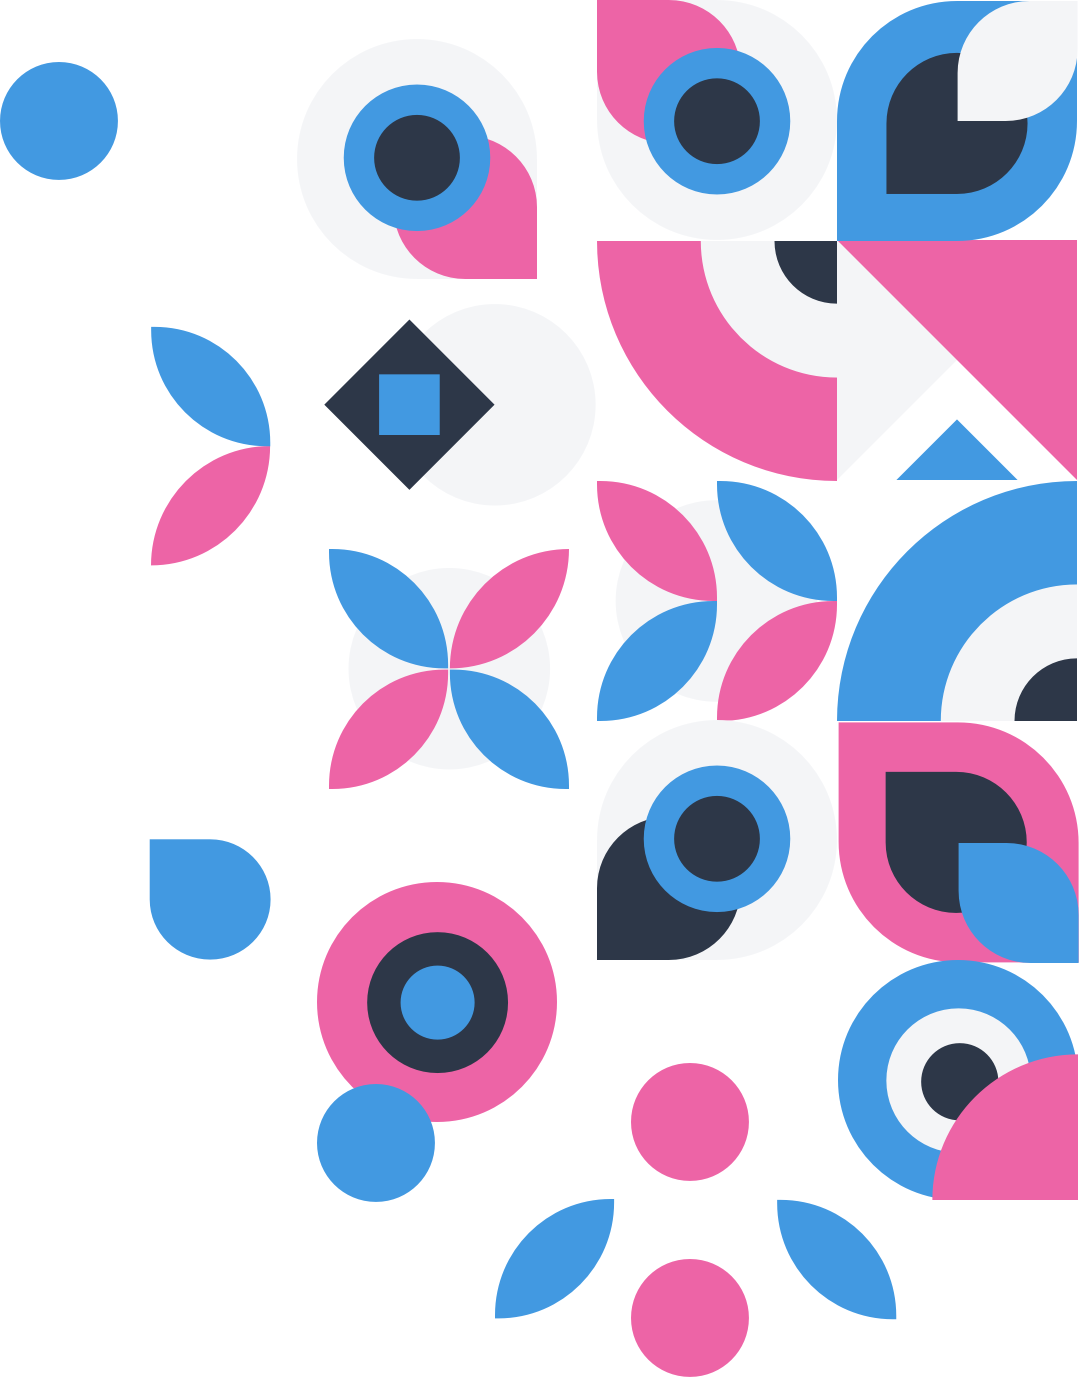
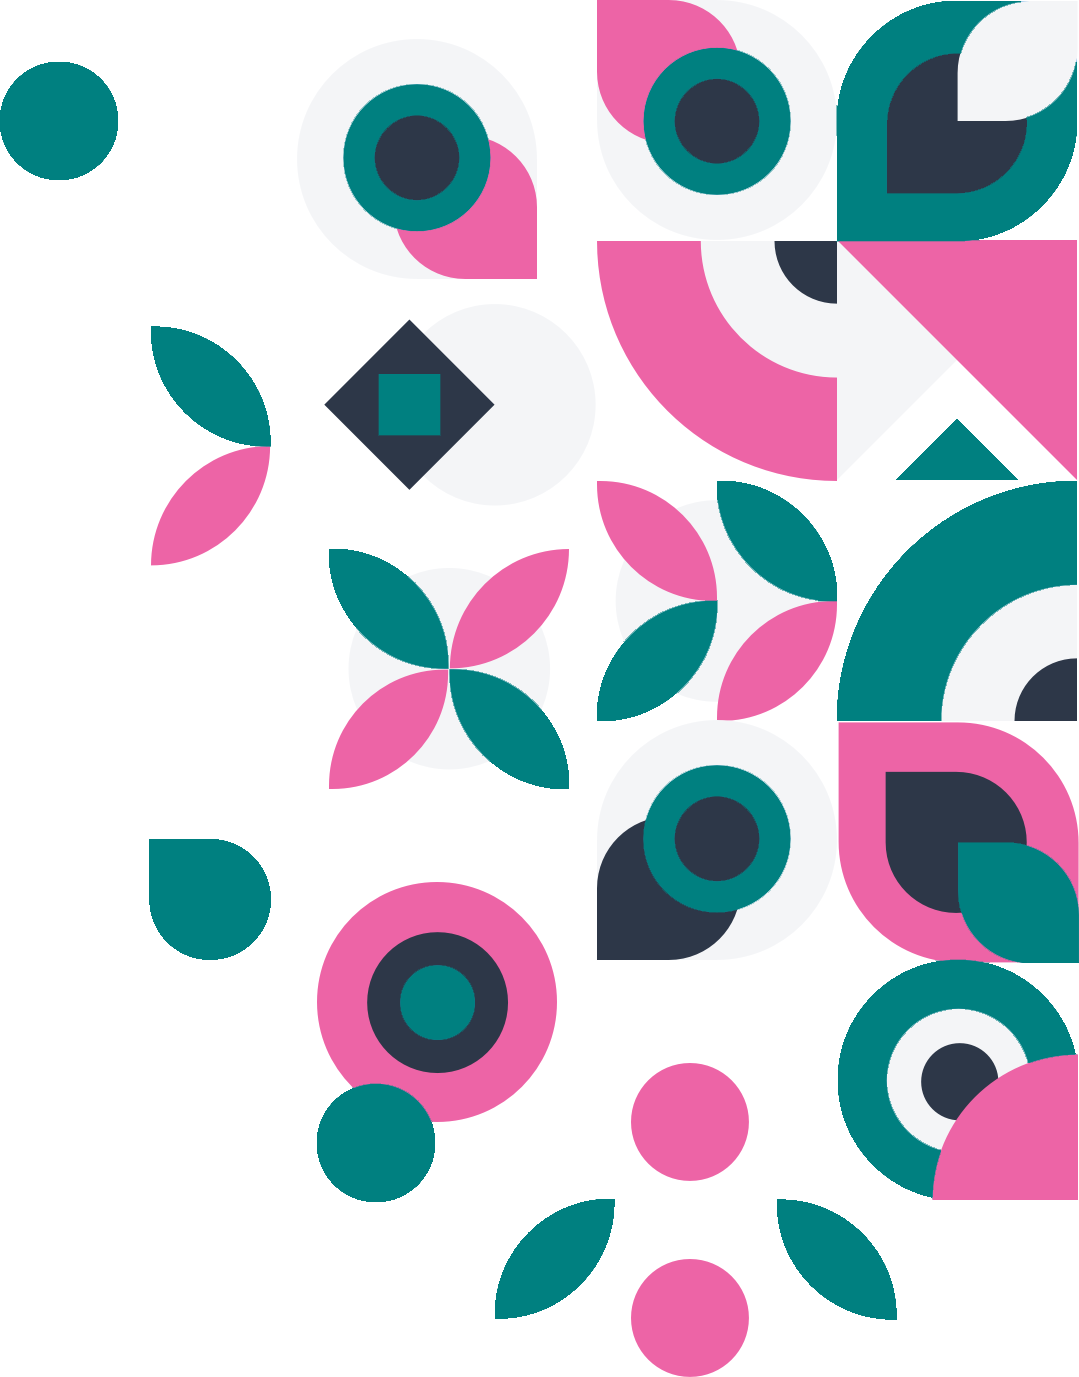
modification composant settings en cours..

diff --git a/front-end/src/views/Index.js b/front-end/src/views/Index.js
@@ -20,8 +20,8 @@ export default function Index({ data }) {
                                 <a href = "https://Iteam-$.mg" className = "text-blueGray-600" target = "_blank" >{" "}Iteam - $ </a>.
                             </p> 
                             <div className = "mt-12" >
-                                <a href = "https://iteam-s.mg/" target = "_blank" className = "get-started text-white font-bold px-6 py-4 rounded outline-none focus:outline-none mr-1 mb-1 bg-lightBlue-500 active:bg-lightBlue-600 uppercase text-sm shadow hover:shadow-lg ease-linear transition-all duration-150" >Get started </a> 
-                                <a href = "https://github.com/iTeam-S" className = "github-star ml-1 text-white font-bold px-6 py-4 rounded outline-none focus:outline-none mr-1 mb-1 bg-blueGray-700 active:bg-blueGray-600 uppercase text-sm shadow hover:shadow-lg ease-linear transition-all duration-150" target = "_blank"  style = {{ backgroundColor: '#116466' }}>Github Star </a> 
+                                <a href = "https://iteam-s.mg/" target = "_blank" className = "get-started text-white font-bold px-6 py-4 rounded outline-none focus:outline-none mr-1 mb-1 bg-lightBlue-500 active:bg-lightBlue-600 uppercase text-sm shadow hover:shadow-lg ease-linear transition-all duration-150" style = {{ backgroundColor: '#008080' }}>Get started </a> 
+                                <a href = "https://github.com/iTeam-S" className = "github-star ml-1 text-white font-bold px-6 py-4 rounded outline-none focus:outline-none mr-1 mb-1 bg-blueGray-700 active:bg-blueGray-600 uppercase text-sm shadow hover:shadow-lg ease-linear transition-all duration-150" target = "_blank"  style = {{ backgroundColor: '#18b7b7' }}>Github Star </a> 
                             </div> 
                         </div> 
                     </div> 
@@ -164,7 +164,7 @@ export default function Index({ data }) {
                                     href= { projet.repos }
                                     target="_blank"
                                 >
-                                    <div className=" shadow-lg rounded-lg text-center p-8 mt-3"  style = {{ backgroundColor: '#116466' }}>
+                                    <div className=" shadow-lg rounded-lg text-center p-8 mt-3"  style = {{ backgroundColor: '#008080' }}>
                                       <img
                                         alt="..."
                                         className="shadow-md rounded-full max-w-full w-16 mx-auto p-2 bg-white"
@@ -188,7 +188,7 @@ export default function Index({ data }) {
                                     href= { projet.repos }
                                     target="_blank"
                                 >
-                                    <div className="bg-lightBlue-500 shadow-lg rounded-lg text-center p-8 mt-3">
+                                    <div className="shadow-lg rounded-lg text-center p-8 mt-3" style = {{ backgroundColor: '#18b7b7' }}>
                                       <img
                                         alt="..."
                                         className="shadow-md rounded-full max-w-full w-16 mx-auto p-2 bg-white"
@@ -205,7 +205,7 @@ export default function Index({ data }) {
                 </div>
             </div>
 
-            <section className = "block relative z-1  pb-48" style = {{ backgroundColor: '#116466' }}>
+            <section className = "block relative z-1  pb-48" style = {{ backgroundColor: '#008080' }}>
                 <div className = "container mx-auto" >
                     <div className = "justify-center flex flex-wrap" >
                         <div className = "w-full lg:w-12/12 px-4  -mt-24" >

diff --git a/front-end/src/views/Profile.js b/front-end/src/views/Profile.js
@@ -57,12 +57,14 @@ export default function Profile({data}) {
                                       </div>
                                       <div className="w-full lg:w-4/12 px-4 lg:order-3 lg:text-right lg:self-center">
                                         <div className="py-6 px-3 mt-32 sm:mt-0">
-                                          <button
-                                            className="bg-lightBlue-500 active:bg-lightBlue-600 uppercase text-white font-bold hover:shadow-md shadow text-xs px-4 py-2 rounded outline-none focus:outline-none sm:mr-2 mb-1 ease-linear transition-all duration-150"
-                                            type="button"
-                                          >
-                                            Send mail
-                                          </button>
+                                          <Link to={`/admin/dashboard/${membre.id}`}>
+                                            <button
+                                              className="bg-lightBlue-500 active:bg-lightBlue-600 uppercase text-white font-bold hover:shadow-md shadow text-xs px-4 py-2 rounded outline-none focus:outline-none sm:mr-2 mb-1 ease-linear transition-all duration-150"
+                                              type="button"
+                                            >
+                                              View statistics
+                                            </button>
+                                          </Link>
                                         </div>
                                       </div>
                                       <div className="w-full lg:w-4/12 px-4 lg:order-1">

diff --git a/front-end/src/components/Cards/CardSettings.js b/front-end/src/components/Cards/CardSettings.js
@@ -2,14 +2,15 @@ import React from "react";
 
 // components
 
-export default function CardSettings() {
+export default function CardSettings({ membre, projet }) {
+    console.log(membre);
     return ( 
         <>
             <div className = "relative flex flex-col min-w-0 break-words w-full mb-6 shadow-lg rounded-lg bg-blueGray-100 border-0" >
                 <div className = "rounded-t bg-white mb-0 px-6 py-6" >
                     <div className = "text-center flex justify-between" >
                         <h6 className = "text-blueGray-700 text-xl font-bold" > My account </h6> 
-                        <button className = "bg-lightBlue-500 text-white active:bg-lightBlue-600 font-bold uppercase text-xs px-4 py-2 rounded shadow hover:shadow-md outline-none focus:outline-none mr-1 ease-linear transition-all duration-150" type = "button" >Settings </button> 
+                        <button className = "bg-lightBlue-500 text-white active:bg-lightBlue-600 font-bold uppercase text-xs px-4 py-2 rounded shadow hover:shadow-md outline-none focus:outline-none mr-1 ease-linear transition-all duration-150" type = "button" >Enregistrer </button> 
                     </div> 
                 </div> 
                 <div className = "flex-auto px-4 lg:px-10 py-10 pt-0" >

diff --git a/front-end/src/components/Navbars/AdminNavbar.js b/front-end/src/components/Navbars/AdminNavbar.js
@@ -1,21 +1,12 @@
 import React from "react";
 
-import UserDropdown from "components/Dropdowns/UserDropdown.js";
-
-export default function Navbar() {
+export default function Navbar({ membre, projet }) {
   return (
     <>
       {/* Navbar */}
       <nav className="absolute top-0 left-0 w-full z-10 bg-transparent md:flex-row md:flex-nowrap md:justify-start flex items-center p-4">
         <div className="w-full mx-autp items-center flex justify-between md:flex-nowrap flex-wrap md:px-10 px-4">
-          {/* Brand */}
-          <a
-            className="text-white text-sm uppercase hidden lg:inline-block font-semibold"
-            href="#pablo"
-            onClick={(e) => e.preventDefault()}
-          >
-            Dashboard
-          </a>
+        
           {/* Form */}
           <form className="md:flex hidden flex-row flex-wrap items-center lg:ml-auto mr-3">
             <div className="relative flex w-full flex-wrap items-stretch">
@@ -31,7 +22,6 @@ export default function Navbar() {
           </form>
           {/* User */}
           <ul className="flex-col md:flex-row list-none items-center hidden md:flex">
-            <UserDropdown />
           </ul>
         </div>
       </nav>

diff --git a/front-end/src/layouts/Admin.js b/front-end/src/layouts/Admin.js
@@ -14,7 +14,7 @@ import Dashboard from "views/admin/Dashboard.js";
 import Settings from "views/admin/Settings.js";
 import Tables from "views/admin/Tables.js";
 
-export default function Admin() {
+export default function Admin({ membre, projet }) {
   return (
     <>
       <Sidebar />
@@ -24,9 +24,15 @@ export default function Admin() {
         <HeaderStats />
         <div className="px-4 md:px-10 mx-auto w-full -m-24">
           <Switch>
-            <Route path="/admin/dashboard" exact component={Dashboard} />                              
-            <Route path="/admin/settings" exact component={Settings} />
-            <Route path="/admin/tables" exact component={Tables} />
+            <Route path="/admin/dashboard" exact >
+                <Dashboard />
+            </Route>                              
+            <Route path="/admin/settings" exact >
+                <Settings membre={membre} projet={projet}/>
+            </Route>
+            <Route path="/admin/tables" exact >
+                <Tables />
+            </Route>
             <Redirect from="/admin" to="/admin/dashboard" />
           </Switch>
           <FooterAdmin />

diff --git a/front-end/src/views/admin/Settings.js b/front-end/src/views/admin/Settings.js
@@ -5,12 +5,12 @@ import React from "react";
 import CardSettings from "components/Cards/CardSettings.js";
 import CardProfile from "components/Cards/CardProfile.js";
 
-export default function Settings() {
+export default function Settings({ membre, projet }) {
   return (
     <>
       <div className="flex flex-wrap">
         <div className="w-full lg:w-8/12 px-4">
-          <CardSettings />
+          <CardSettings membre={membre} projet={projet} />
         </div>
         <div className="w-full lg:w-4/12 px-4">
           <CardProfile />

diff --git a/front-end/src/index.js b/front-end/src/index.js
@@ -50,7 +50,7 @@ const App = () => {
         <Switch>
           {/* add routes with layouts */}
           <Route path="/admin">
-              <Admin />
+              <Admin membre={member} projet={project}/>
           </Route>
           <Route path="/auth">
               <Auth />
